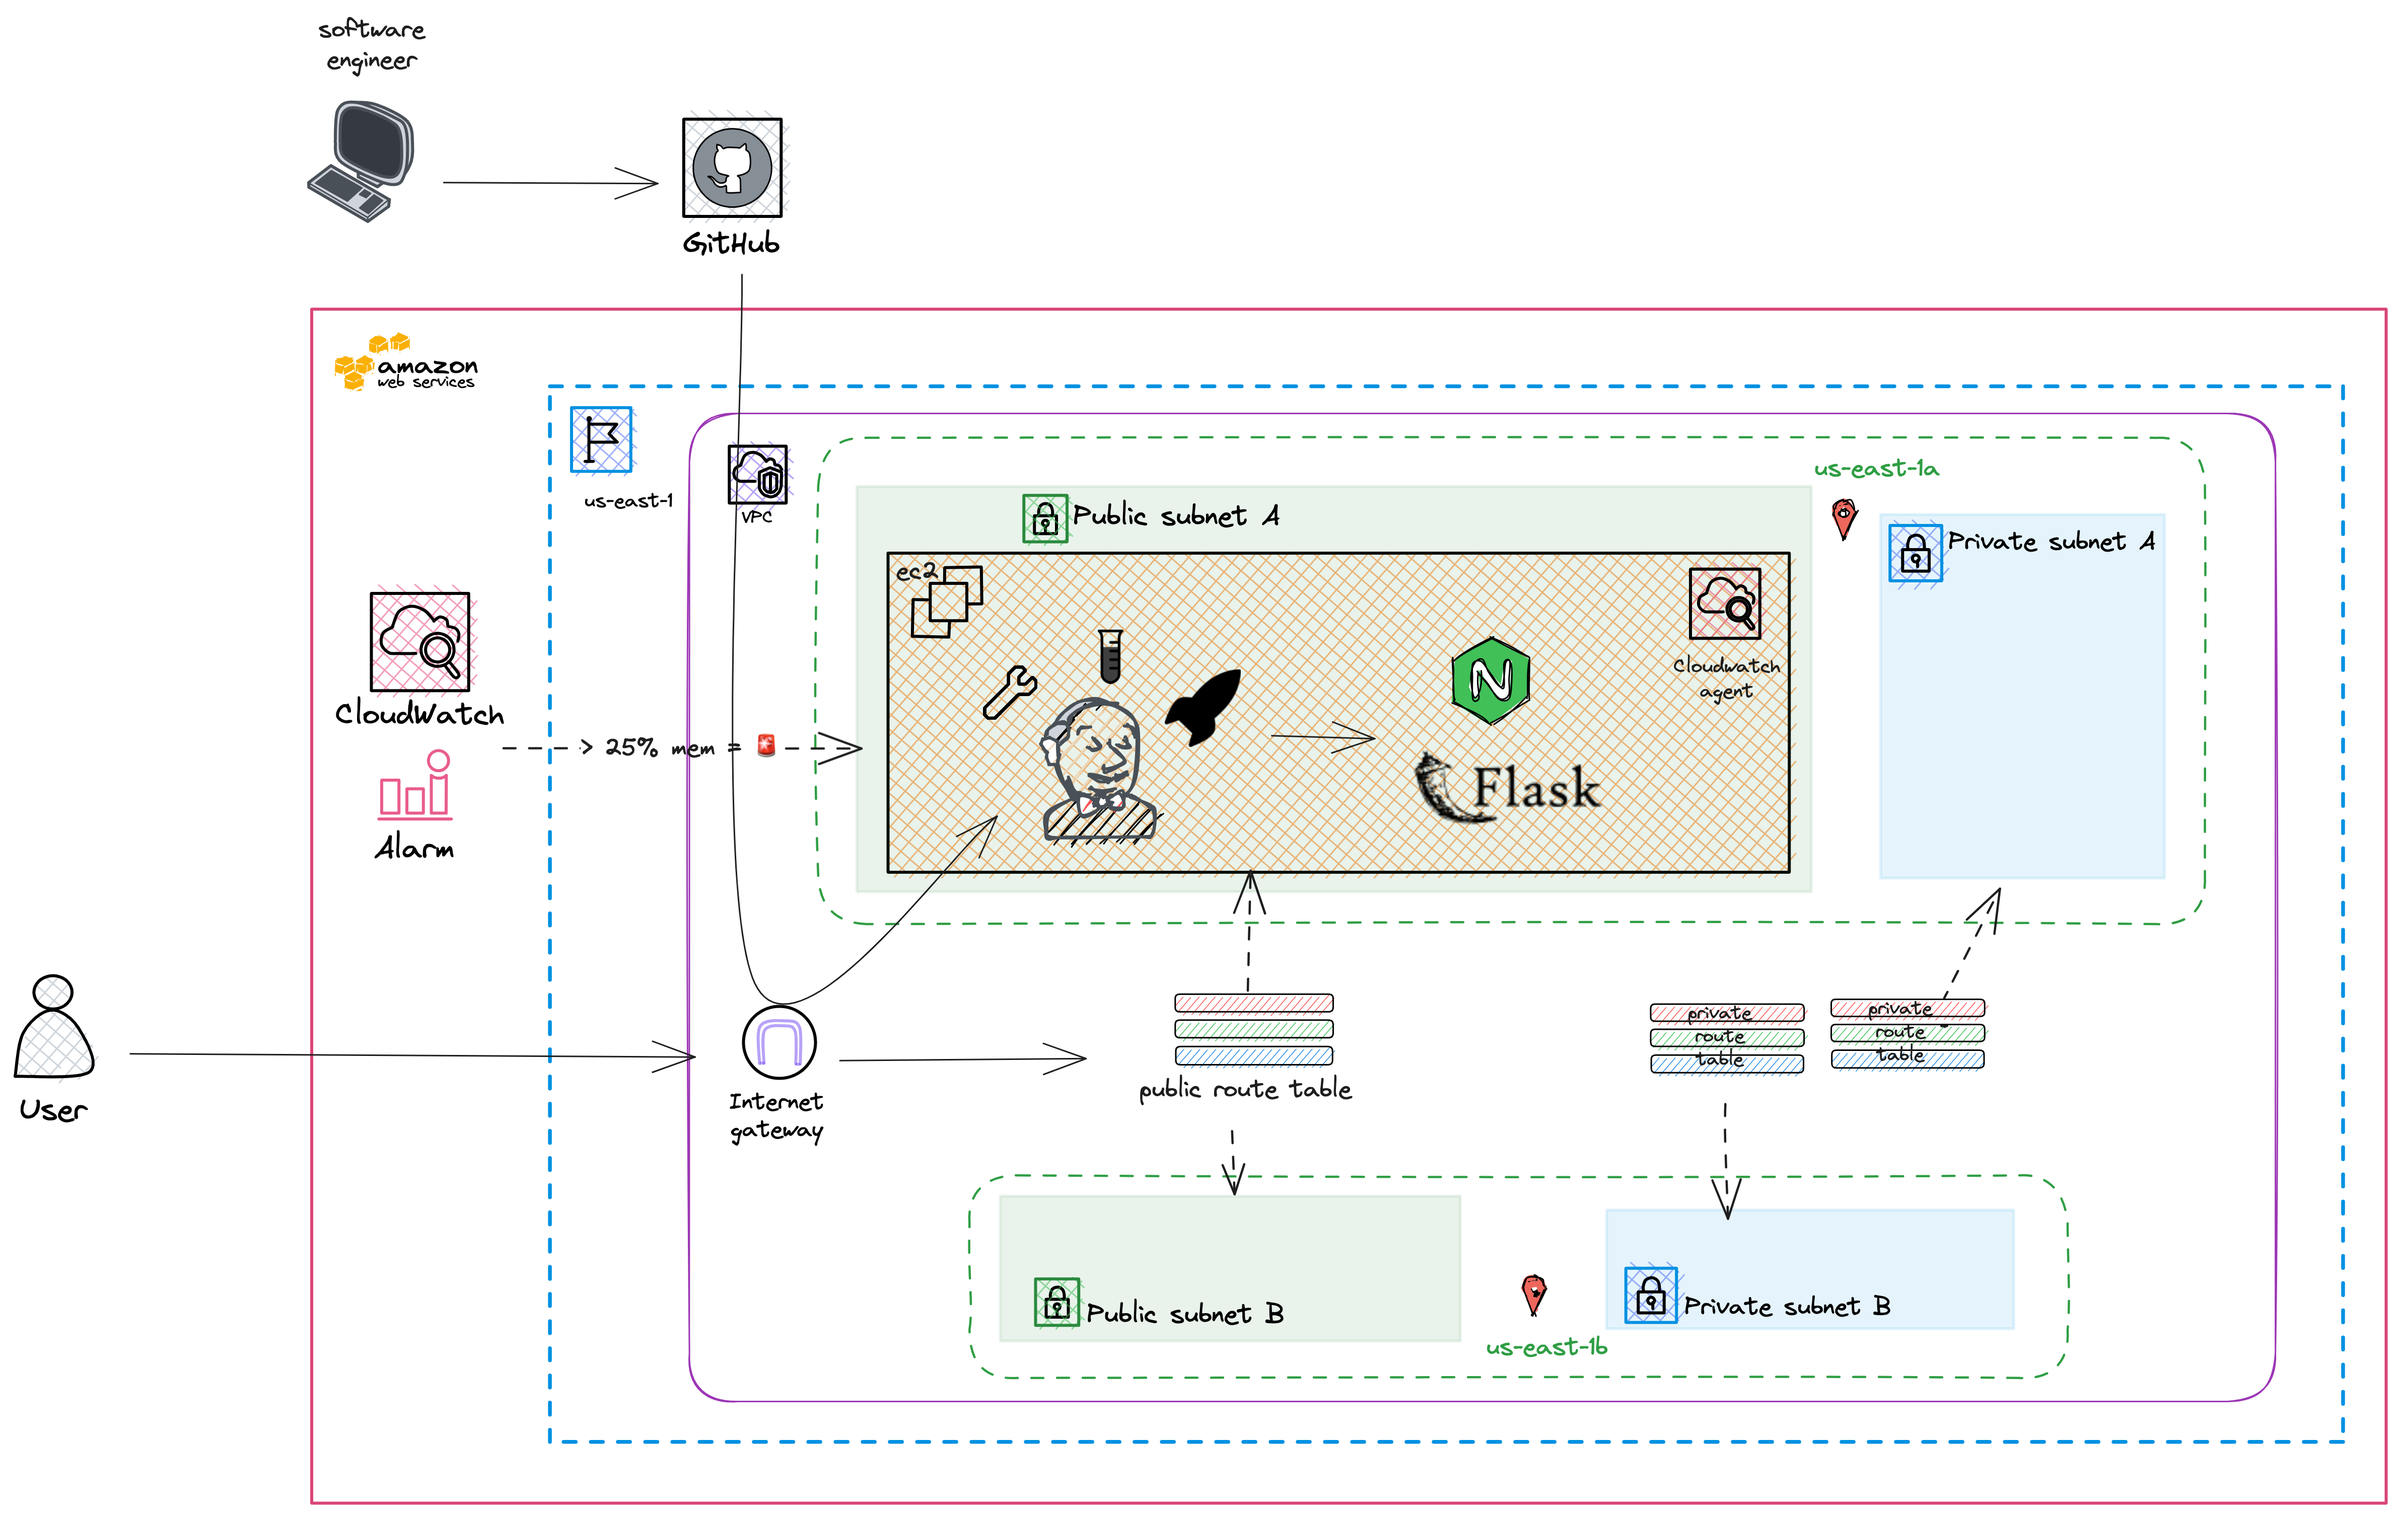
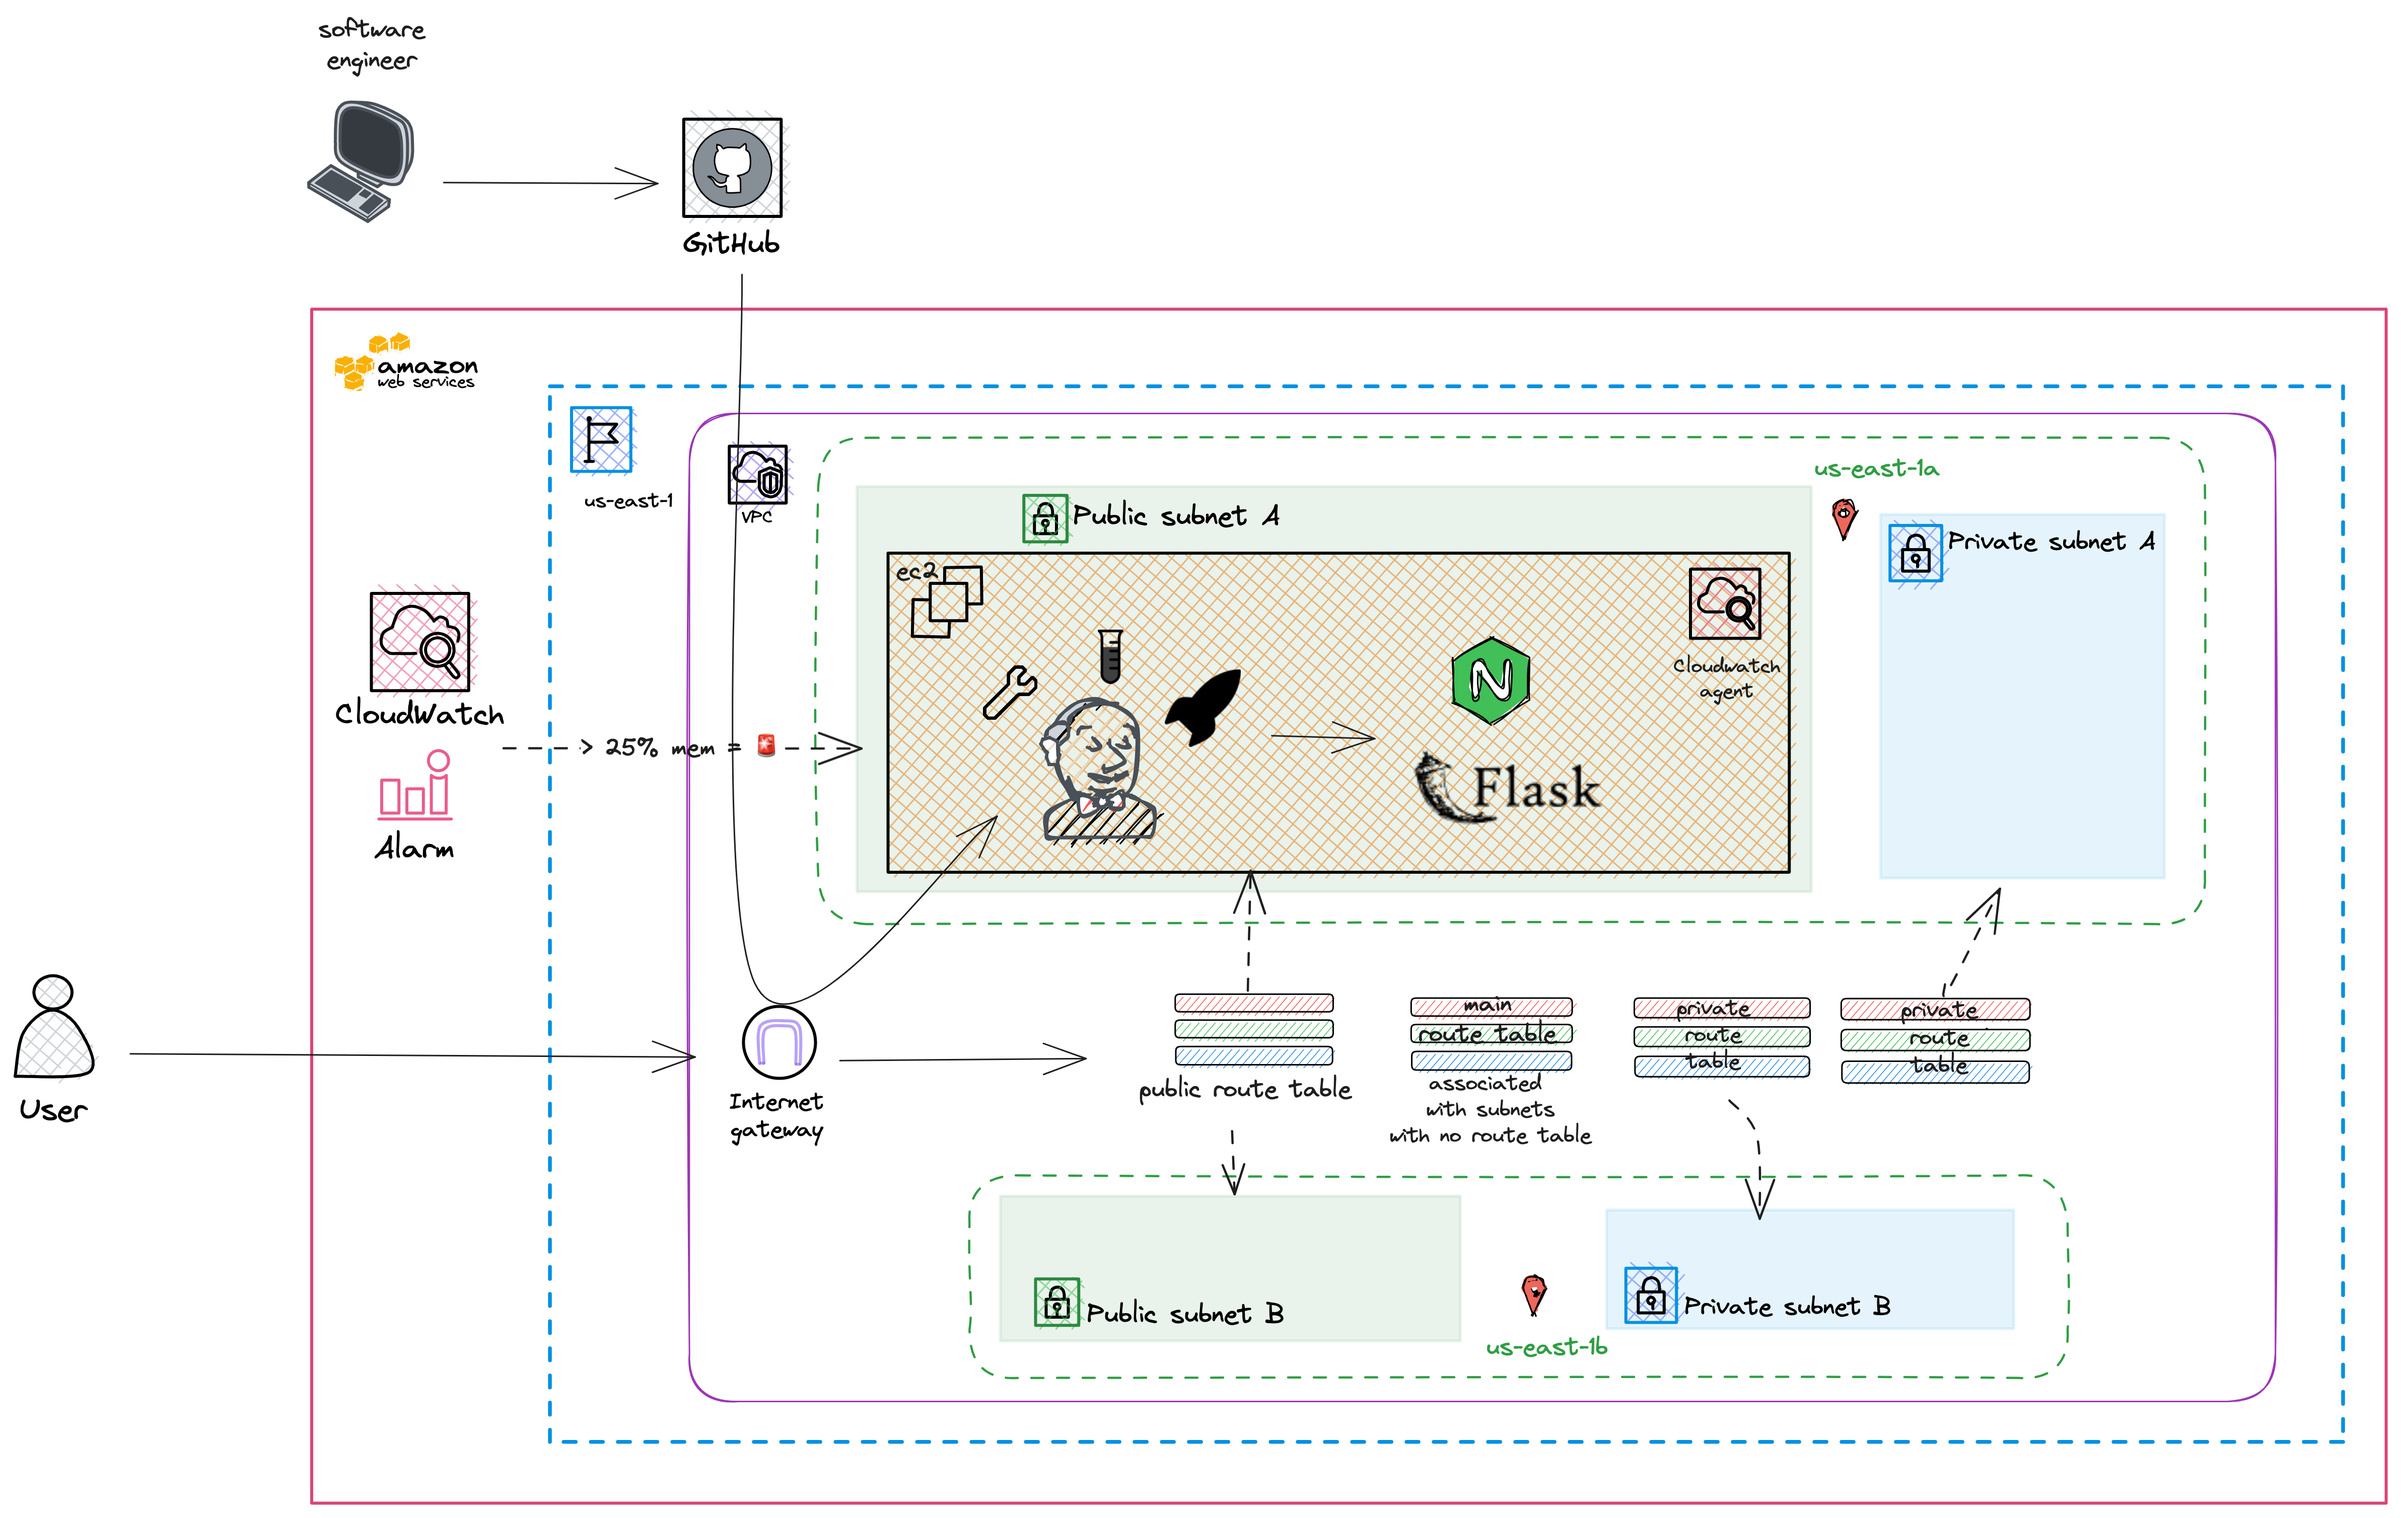
chaning diagram to include main rt

Changed region(s): [[0.6875, 0.6545, 0.8438, 0.7168], [0.5938, 0.6545, 0.6562, 0.748], [0.7188, 0.7792, 0.75, 0.8103]]

diff --git a/README.md b/README.md
@@ -1,8 +1,9 @@
 # Deploying Jenkins and a Flask app on an EC2 in a VPC
 
 ***
-This is a guide to manually deploy Jenkins along with a Flask application on an EC2 instance housed within an AWS VPC. The goal of these steps is to create an environment on AWS with a Continuous Integration (CI) and Continuous Deployment (CD) processes.
+This is a guide to manually deploy Jenkins along with a URL-shornter application (Flask) on an EC2 instance housed within an AWS VPC. The goal of these steps is to create an environment on AWS with a Continuous Integration (CI) and Continuous Deployment (CD) processes.
 
+These are the steps:
 1. VPC Creation: Craft an isolated Amazon VPC.
 2. EC2 Configuration: Set up an EC2 instance.
 3. GitHub Integration: Integrate GitHub tokens for Jenkins and establish webhooks.
